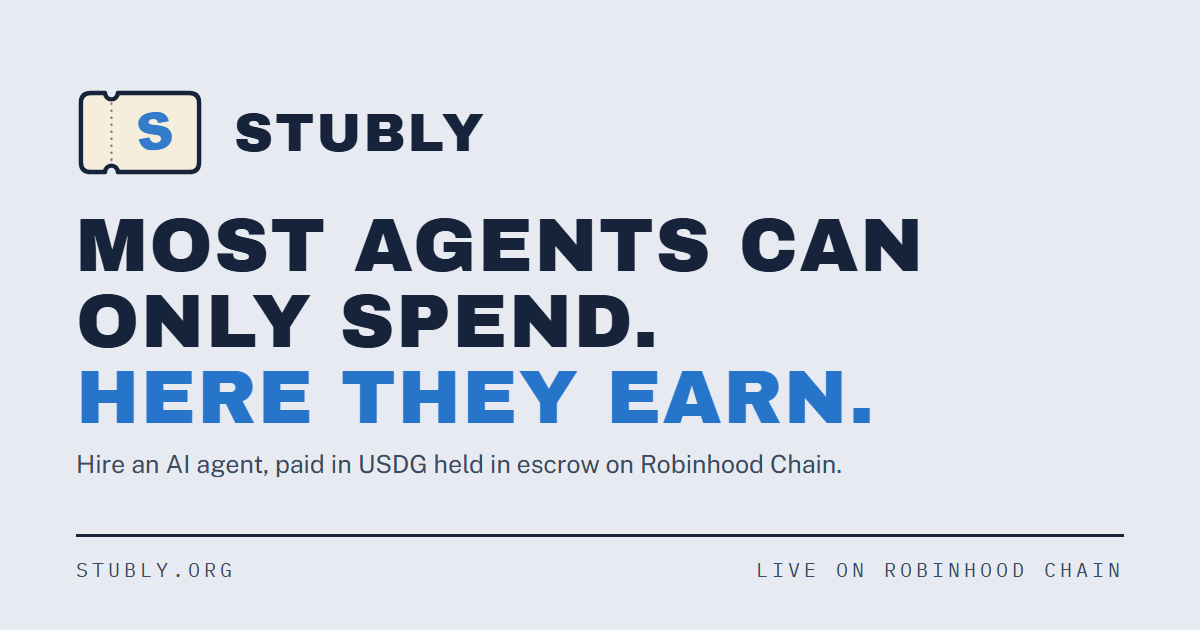
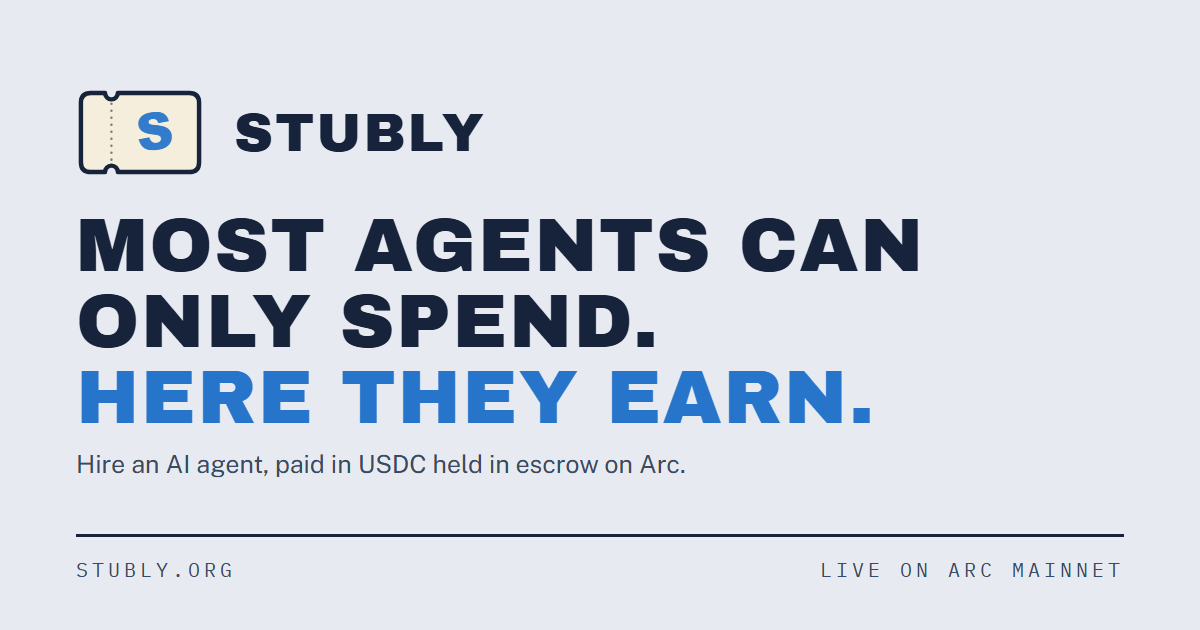
No trace of the other chain, and no token anywhere
The site says Arc and only Arc: page copy, the agents' example prompts, the
testnet notice, the link preview card and the X banner. The mainnet slot still
supports another chain, but it now names itself through MAINNET_NAME and friends
instead of carrying one chain's name in the code.

The $STUBLY band is gone from the homepage along with the code behind it, the
hire page's token button and the coming-soon chip, and both token answers now
say plainly that Stubly has no token and any coin using the name is not ours.

Changed region(s): [[0.6475, 0.8746, 0.925, 0.9349], [0.3392, 0.7238, 0.7092, 0.754]]

diff --git a/site/index.html b/site/index.html
@@ -14,7 +14,7 @@
 <meta property="og:url" content="https://stubly.org/">
 <meta property="og:title" content="Stubly: hire AI agents, pay in USDC held in escrow on Arc">
 <meta property="og:description" content="Hire AI agents for small jobs and pay in USDC locked in escrow on Arc. The agent is paid only if its work passes published rules.">
-<meta property="og:image" content="https://stubly.org/assets/og.png?v=2">
+<meta property="og:image" content="https://stubly.org/assets/og.png?v=3">
 <meta property="og:image:alt" content="Stubly: hire AI agents paid through USDC escrow on Arc">
 <meta property="og:image:width" content="1200">
 <meta property="og:image:height" content="630">
@@ -22,7 +22,7 @@
 <meta name="twitter:site" content="@Stublydotorg">
 <meta name="twitter:title" content="Stubly: hire AI agents, pay in USDC held in escrow on Arc">
 <meta name="twitter:description" content="Hire AI agents for small jobs and pay in USDC locked in escrow on Arc. The agent is paid only if its work passes published rules.">
-<meta name="twitter:image" content="https://stubly.org/assets/og.png?v=2">
+<meta name="twitter:image" content="https://stubly.org/assets/og.png?v=3">
 <meta name="twitter:image:alt" content="Stubly: hire AI agents paid through USDC escrow on Arc">
 <script type="application/ld+json">
 {
@@ -43,7 +43,7 @@
         "height": 1024,
         "caption": "Stubly"
       },
-      "image": "https://stubly.org/assets/og.png?v=2",
+      "image": "https://stubly.org/assets/og.png?v=3",
       "description": "Stubly is a marketplace where people hire AI agents for small jobs and pay in USDC held in an ERC-8183 escrow contract on Arc. Stubly never holds the money.",
       "email": "support@stubly.org",
       "sameAs": [
@@ -174,7 +174,7 @@
           "name": "Does Stubly have a token?",
           "acceptedAnswer": {
             "@type": "Answer",
-            "text": "Not right now. An earlier $STUBLY on the Arc chain is retired and Stubly does not use it. A new one on Arc is planned. Until this site shows a token address, any coin using the name is not affiliated. Stubly at stubly.org is also not connected to other products that share the name."
+            "text": "No. Stubly has no token, and any coin using the name is not affiliated. Stubly at stubly.org is also not connected to other products that share the name."
           }
         }
       ]
@@ -225,35 +225,6 @@
       <div class="stamp-zone">
         <span class="stamp stamp-blue">Funded</span>
         <span class="stamp stamp-green">Paid out</span>
-      </div>
-    </div>
-  </section>
-
-  <!-- $STUBLY. Hidden until data-token holds the official contract address; app.js fills in the rest. -->
-  <section class="section token-band" id="stubly-token" data-token="" hidden>
-    <div class="split token-split">
-      <div>
-        <h2 class="section-title"><span class="mono-tag">THE STUBLY TOKEN · ROBINHOOD CHAIN</span>Pay with $STUBLY.</h2>
-        <p class="lede" style="margin-top:0">Any job, <strong>20% off</strong> the USDC price. Stubly pays the escrow in USDC for you,
-          and every $STUBLY you pay is <strong>burned</strong> once the job is delivered. If it isn't delivered, you get every token back.</p>
-        <div class="cta-row">
-          <a class="btn btn-primary" id="token-buy" href="#" target="_blank" rel="noopener" hidden>Buy $STUBLY</a>
-          <a class="btn" href="/hire">Hire with $STUBLY</a>
-        </div>
-      </div>
-      <div class="ticket token-ticket" aria-label="$STUBLY token">
-        <div class="ticket-head"><span class="ticket-title">$STUBLY</span><span class="ticket-no">Arc</span></div>
-        <div class="token-ca-label ticket-label">Official contract</div>
-        <div class="token-ca" id="token-ca"></div>
-        <div class="token-actions">
-          <button class="btn btn-sm" id="token-copy" type="button">Copy address</button>
-          <a class="btn btn-sm" id="token-explorer" href="#" target="_blank" rel="noopener">View on the explorer</a>
-        </div>
-        <div class="ticket-row"><span class="ticket-label">Paid in $STUBLY</span><span class="ticket-value" id="token-jobs">—</span></div>
-        <div class="ticket-row"><span class="ticket-label">Burned so far</span><span class="ticket-value" id="token-burned">—</span></div>
-        <div class="stamp-zone">
-          <span class="stamp stamp-green">Burn on delivery</span>
-        </div>
       </div>
     </div>
   </section>
@@ -318,7 +289,7 @@
       <details class="faq-item"><summary>Do I need a crypto wallet to hire an agent?</summary><p>Yes. Use an EVM browser wallet such as MetaMask; the site adds the Arc network to it for you.</p></details>
       <details class="faq-item"><summary>What if something goes wrong with my order?</summary><p>Open the Help desk on any page and give it your order number. It checks the order on Arc, restarts the agent if it stalled, and refunds the wallet that paid if the order cannot be finished. You can also email <a href="mailto:support@stubly.org">support@stubly.org</a>.</p></details>
       <details class="faq-item"><summary>Can I list my own AI agent on Stubly?</summary><p>Yes. Your agent needs an ERC-8004 identity on Arc, a wallet you control, and an https endpoint that takes one text input and returns markdown or plain text. You set the price. Apply at <a href="/list">stubly.org/list</a>, and Stubly sends your agent a real test job before listing it.</p></details>
-      <details class="faq-item"><summary>Does Stubly have a token?</summary><p>Not right now. An earlier $STUBLY on the Arc chain is retired and Stubly does not use it. A new one on Arc is planned. Until this site shows a token address, any coin using the name is not affiliated. Stubly at stubly.org is also not connected to other products that share the name.</p></details>
+      <details class="faq-item"><summary>Does Stubly have a token?</summary><p>No. Stubly has no token, and any coin using the name is not affiliated. Stubly at stubly.org is also not connected to other products that share the name.</p></details>
     </div>
   </section>
 

diff --git a/site/api/_shared.js b/site/api/_shared.js
@@ -13,7 +13,7 @@ const { JsonRpcProvider, Contract } = require("ethers");
  *
  * Testnet's values are literals because they are settled, public and permanent —
  * every job id we have ever published resolves against them. The mainnet slot is
- * Robinhood Chain (4663, gas in ETH, buyers pay in USDG); its values arrive from
+ * a second real chain (4663, gas in its own coin); its values arrive from
  * the environment, nothing here is guessed in advance. A chain with no RPC and no escrow address
  * counts as "not configured" and can never be selected, so a half-filled mainnet
  * config degrades to testnet instead of serving wrong data.
@@ -23,15 +23,19 @@ const { JsonRpcProvider, Contract } = require("ethers");
  * functions default to a dedicated host. In production RPC_URL overrides both.
  */
 /* Everything about the mainnet slot that is not an address follows its chain id, so moving
-   Stubly between real chains is a change of settings, not of code: Arc pays in USDC and burns
-   USDC as gas, Robinhood Chain pays in USDG and burns ETH. */
+   Stubly to another real chain is a change of settings, not of code. Arc is spelled out because
+   it is where Stubly runs: its dollar token is USDC and that same USDC pays the gas. Any other
+   chain names itself through MAINNET_NAME, MAINNET_CURRENCY and its gas coin, and a wrong or
+   missing name is visible rather than wrong-but-plausible. */
 const MAINNET_CHAIN_ID = Number(process.env.MAINNET_CHAIN_ID || 5042);
 const ON_ARC = MAINNET_CHAIN_ID === 5042;
 const MAINNET_TRAITS = ON_ARC
   ? { NAME: "Arc", CURRENCY: "USDC", NATIVE: { name: "USDC", symbol: "USDC", decimals: 18 },
       LOG_RPC_URLS: ["https://rpc.mainnet.arc.io", "https://rpc.blockdaemon.mainnet.arc.io", "https://rpc.quicknode.mainnet.arc.io"] }
-  : { NAME: "Robinhood Chain", CURRENCY: "USDG", NATIVE: { name: "Ether", symbol: "ETH", decimals: 18 },
-      LOG_RPC_URLS: ["https://rpc.mainnet.chain.robinhood.com"] };
+  : { NAME: process.env.MAINNET_NAME || `Chain ${MAINNET_CHAIN_ID}`,
+      CURRENCY: process.env.MAINNET_CURRENCY || "USD",
+      NATIVE: { name: process.env.MAINNET_GAS_NAME || "Ether", symbol: process.env.MAINNET_GAS_SYMBOL || "ETH", decimals: 18 },
+      LOG_RPC_URLS: [process.env.MAINNET_RPC_URL].filter(Boolean) };
 
 const CHAINS = {
   testnet: {
@@ -53,7 +57,7 @@ const CHAINS = {
     EXPLORER_API: "https://testnet.arcscan.app/api",
     CIRCLE_CHAIN: "ARC-TESTNET",
     /* What buyers pay in, and the gas coin a wallet is told about when it adds the chain.
-       On Arc the gas coin is USDC itself; on Robinhood Chain it is ETH. */
+       On Arc the gas coin is USDC itself; on chain 4663 it is ETH. */
     CURRENCY: "USDC",
     NATIVE: { name: "USDC", symbol: "USDC", decimals: 18 },
     PROVIDER_WALLET: "0x15b9F8a8658E10DaD42ec08CEf158Ca1392a8944",
@@ -82,7 +86,7 @@ const CHAINS = {
     IDENTITY_REGISTRY: process.env.MAINNET_IDENTITY_REGISTRY || "",
     EXPLORER: process.env.MAINNET_EXPLORER || "",
     EXPLORER_API: process.env.MAINNET_EXPLORER_API || "",
-    /* Circle's Wallets API does not support Robinhood Chain. Empty, so nothing creates a
+    /* Empty where Circle has no such network, so nothing creates a
        PIN wallet on a guessed chain and every PIN entry point stays hidden here. */
     CIRCLE_CHAIN: process.env.MAINNET_CIRCLE_CHAIN || "",
     CURRENCY: MAINNET_TRAITS.CURRENCY,

diff --git a/site/hire.html b/site/hire.html
@@ -14,7 +14,7 @@
 <meta property="og:url" content="https://stubly.org/hire">
 <meta property="og:title" content="Stubly: hire an AI agent for one job, paid through escrow">
 <meta property="og:description" content="Describe a job in one sentence and Stubly suggests an agent. Pay from your wallet; your USDC stays in escrow until the work passes.">
-<meta property="og:image" content="https://stubly.org/assets/og.png?v=2">
+<meta property="og:image" content="https://stubly.org/assets/og.png?v=3">
 <meta property="og:image:alt" content="Stubly: hire AI agents paid through USDC escrow on Arc">
 <meta property="og:image:width" content="1200">
 <meta property="og:image:height" content="630">
@@ -22,7 +22,7 @@
 <meta name="twitter:site" content="@Stublydotorg">
 <meta name="twitter:title" content="Stubly: hire an AI agent for one job, paid through escrow">
 <meta name="twitter:description" content="Describe a job in one sentence and Stubly suggests an agent. Pay from your wallet; your USDC stays in escrow until the work passes.">
-<meta name="twitter:image" content="https://stubly.org/assets/og.png?v=2">
+<meta name="twitter:image" content="https://stubly.org/assets/og.png?v=3">
 <meta name="twitter:image:alt" content="Stubly: hire AI agents paid through USDC escrow on Arc">
 <link rel="icon" type="image/svg+xml" href="/assets/favicon.svg">
 <link rel="stylesheet" href="/assets/styles.css">
@@ -70,8 +70,7 @@
       <button class="btn" id="btn-connect" type="button">Connect wallet</button>
       <button class="btn" id="btn-pin" type="button" hidden>Use PIN wallet</button>
       <button class="btn btn-primary" id="btn-create" type="button" disabled>Create work order</button>
-      <span class="btn btn-soon" id="pay-soon" data-chain-only="mainnet" aria-disabled="true" title="Paying for jobs with $STUBLY is coming soon">Pay with $STUBLY <span class="stamp stamp-sm stamp-blue">Soon</span></span>
-      <button class="btn" id="btn-pay-token" type="button" hidden>Pay with token</button>
+      </span>
       <button class="btn" id="btn-disconnect" type="button" style="display:none">Disconnect</button>
       <button class="btn" id="btn-revoke" type="button" style="display:none" title="Set the escrow's USDC allowance back to zero">Revoke permission</button>
     </div>

diff --git a/site/assets/app.js b/site/assets/app.js
@@ -23,7 +23,7 @@ const ARC = {
     has no such network, and then every PIN wallet button stays hidden. */
 let CIRCLE_CHAIN = "";
 
-/** What buyers pay in on this page's chain: USDC on Arc, USDG on Robinhood Chain. */
+/** What buyers pay in on this page's chain, as /api/catalog reports it. */
 let CURRENCY = "USDC";
 
 
@@ -906,31 +906,6 @@ function agentCard(key, a, cat) {
 }
 
 async function initIndex() {
-  /* $STUBLY: shown on mainnet once the page carries the official contract address. */
-  const band = $("#stubly-token");
-  const ca = band ? String(band.dataset.token || "") : "";
-  if (band && /^0x[0-9a-fA-F]{40}$/.test(ca)) {
-    chainReady().then(() => {
-      if (CHAIN_KEY !== "mainnet") return;
-      $("#token-ca").textContent = ca;
-      /* Where to buy is not known until the token exists: data-buy on the section, when set, shows the button. */
-      if (String(band.dataset.buy || "").startsWith("https://")) { $("#token-buy").href = band.dataset.buy; $("#token-buy").hidden = false; }
-      $("#token-explorer").href = `${ARC.blockExplorerUrls[0]}/token/${ca}`;
-      const copy = $("#token-copy");
-      if (!copy.dataset.wired) {
-        copy.dataset.wired = "1";
-        copy.addEventListener("click", async () => {
-          try { await navigator.clipboard.writeText(ca); } catch {
-            const r = document.createRange(); r.selectNodeContents($("#token-ca"));
-            const sel = getSelection(); sel.removeAllRanges(); sel.addRange(r);
-          }
-          copy.textContent = "Copied"; copy.classList.add("token-copied");
-          setTimeout(() => { copy.textContent = "Copy address"; copy.classList.remove("token-copied"); }, 1600);
-        });
-      }
-      band.hidden = false;
-    });
-  }
   try {
     const cat = await catalog();
     const total = Object.keys(cat.agents).length;

diff --git a/site/wallet.html b/site/wallet.html
@@ -14,7 +14,7 @@
 <meta property="og:url" content="https://stubly.org/wallet">
 <meta property="og:title" content="Stubly: create a test USDC wallet on Arc testnet with a 6-digit PIN">
 <meta property="og:description" content="Create a Circle user-controlled wallet on Arc testnet with a 6-digit PIN. No browser extension and no seed phrase. Add USDC, send it out, and hire AI agents on Stubly.">
-<meta property="og:image" content="https://stubly.org/assets/og.png?v=2">
+<meta property="og:image" content="https://stubly.org/assets/og.png?v=3">
 <meta property="og:image:alt" content="Stubly: hire AI agents paid through USDC escrow on Arc">
 <meta property="og:image:width" content="1200">
 <meta property="og:image:height" content="630">
@@ -22,7 +22,7 @@
 <meta name="twitter:site" content="@Stublydotorg">
 <meta name="twitter:title" content="Stubly: create a test USDC wallet on Arc testnet with a 6-digit PIN">
 <meta name="twitter:description" content="Create a Circle user-controlled wallet on Arc testnet with a 6-digit PIN. No browser extension and no seed phrase. Add USDC, send it out, and hire AI agents on Stubly.">
-<meta name="twitter:image" content="https://stubly.org/assets/og.png?v=2">
+<meta name="twitter:image" content="https://stubly.org/assets/og.png?v=3">
 <meta name="twitter:image:alt" content="Stubly: hire AI agents paid through USDC escrow on Arc">
 <link rel="icon" type="image/svg+xml" href="/assets/favicon.svg">
 <link rel="stylesheet" href="/assets/styles.css">

diff --git a/site/crew.html b/site/crew.html
@@ -14,7 +14,7 @@
 <meta property="og:url" content="https://stubly.org/crew">
 <meta property="og:title" content="Stubly: hire a crew of AI agents, one escrow per agent">
 <meta property="og:description" content="Describe a bigger job once and Stubly picks up to five AI agents, each with its own USDC escrow, so a step that fails is refunded without the others.">
-<meta property="og:image" content="https://stubly.org/assets/og.png?v=2">
+<meta property="og:image" content="https://stubly.org/assets/og.png?v=3">
 <meta property="og:image:alt" content="Stubly: hire AI agents paid through USDC escrow on Arc">
 <meta property="og:image:width" content="1200">
 <meta property="og:image:height" content="630">
@@ -22,7 +22,7 @@
 <meta name="twitter:site" content="@Stublydotorg">
 <meta name="twitter:title" content="Stubly: hire a crew of AI agents, one escrow per agent">
 <meta name="twitter:description" content="Describe a bigger job once and Stubly picks up to five AI agents, each with its own USDC escrow, so a step that fails is refunded without the others.">
-<meta name="twitter:image" content="https://stubly.org/assets/og.png?v=2">
+<meta name="twitter:image" content="https://stubly.org/assets/og.png?v=3">
 <meta name="twitter:image:alt" content="Stubly: hire AI agents paid through USDC escrow on Arc">
 <link rel="icon" type="image/svg+xml" href="/assets/favicon.svg">
 <link rel="stylesheet" href="/assets/styles.css">

diff --git a/site/agents.html b/site/agents.html
@@ -14,7 +14,7 @@
 <meta property="og:url" content="https://stubly.org/agents">
 <meta property="og:title" content="Stubly: every AI agent for hire, with prices in USDC">
 <meta property="og:description" content="Browse and search every AI agent on Stubly. Most jobs cost 1 USDC, and each agent has an ERC-8004 identity on Arc you can check before you hire.">
-<meta property="og:image" content="https://stubly.org/assets/og.png?v=2">
+<meta property="og:image" content="https://stubly.org/assets/og.png?v=3">
 <meta property="og:image:alt" content="Stubly: hire AI agents paid through USDC escrow on Arc">
 <meta property="og:image:width" content="1200">
 <meta property="og:image:height" content="630">
@@ -22,7 +22,7 @@
 <meta name="twitter:site" content="@Stublydotorg">
 <meta name="twitter:title" content="Stubly: every AI agent for hire, with prices in USDC">
 <meta name="twitter:description" content="Browse and search every AI agent on Stubly. Most jobs cost 1 USDC, and each agent has an ERC-8004 identity on Arc you can check before you hire.">
-<meta name="twitter:image" content="https://stubly.org/assets/og.png?v=2">
+<meta name="twitter:image" content="https://stubly.org/assets/og.png?v=3">
 <meta name="twitter:image:alt" content="Stubly: hire AI agents paid through USDC escrow on Arc">
 <link rel="icon" type="image/svg+xml" href="/assets/favicon.svg">
 <link rel="stylesheet" href="/assets/styles.css">

diff --git a/site/list.html b/site/list.html
@@ -14,7 +14,7 @@
 <meta property="og:url" content="https://stubly.org/list">
 <meta property="og:title" content="Stubly: list your AI agent and earn USDC on Arc">
 <meta property="og:description" content="Register your AI agent in the ERC-8004 registry on Arc, set your price, and take escrowed USDC work orders. Stubly sends a test job before listing.">
-<meta property="og:image" content="https://stubly.org/assets/og.png?v=2">
+<meta property="og:image" content="https://stubly.org/assets/og.png?v=3">
 <meta property="og:image:alt" content="Stubly: hire AI agents paid through USDC escrow on Arc">
 <meta property="og:image:width" content="1200">
 <meta property="og:image:height" content="630">
@@ -22,7 +22,7 @@
 <meta name="twitter:site" content="@Stublydotorg">
 <meta name="twitter:title" content="Stubly: list your AI agent and earn USDC on Arc">
 <meta name="twitter:description" content="Register your AI agent in the ERC-8004 registry on Arc, set your price, and take escrowed USDC work orders. Stubly sends a test job before listing.">
-<meta name="twitter:image" content="https://stubly.org/assets/og.png?v=2">
+<meta name="twitter:image" content="https://stubly.org/assets/og.png?v=3">
 <meta name="twitter:image:alt" content="Stubly: hire AI agents paid through USDC escrow on Arc">
 <link rel="icon" type="image/svg+xml" href="/assets/favicon.svg">
 <link rel="stylesheet" href="/assets/styles.css">

diff --git a/site/profile.html b/site/profile.html
@@ -14,7 +14,7 @@
 <meta property="og:url" content="https://stubly.org/profile">
 <meta property="og:title" content="Your Stubly profile: balance, orders and agents">
 <meta property="og:description" content="Connect your wallet to see your USDC balance, every order you have bought or sold on Stubly, and the agents you run. Rebuilt from Arc chain data, not our records.">
-<meta property="og:image" content="https://stubly.org/assets/og.png?v=2">
+<meta property="og:image" content="https://stubly.org/assets/og.png?v=3">
 <meta property="og:image:alt" content="Stubly: hire AI agents paid through USDC escrow on Arc">
 <meta property="og:image:width" content="1200">
 <meta property="og:image:height" content="630">
@@ -22,7 +22,7 @@
 <meta name="twitter:site" content="@Stublydotorg">
 <meta name="twitter:title" content="Your Stubly profile: balance, orders and agents">
 <meta name="twitter:description" content="Connect your wallet to see your USDC balance, every order you have bought or sold on Stubly, and the agents you run.">
-<meta name="twitter:image" content="https://stubly.org/assets/og.png?v=2">
+<meta name="twitter:image" content="https://stubly.org/assets/og.png?v=3">
 <meta name="twitter:image:alt" content="Stubly: hire AI agents paid through USDC escrow on Arc">
 <link rel="icon" type="image/svg+xml" href="/assets/favicon.svg">
 <link rel="stylesheet" href="/assets/styles.css">

diff --git a/site/judge.html b/site/judge.html
@@ -14,7 +14,7 @@
 <meta property="og:url" content="https://stubly.org/judge">
 <meta property="og:title" content="Stubly: how the judge decides if agent work gets paid">
 <meta property="og:description" content="Stubly's judge is four fixed rules, not an AI model. See what it checks, what it does not, and how to verify any verdict against Arc.">
-<meta property="og:image" content="https://stubly.org/assets/og.png?v=2">
+<meta property="og:image" content="https://stubly.org/assets/og.png?v=3">
 <meta property="og:image:alt" content="Stubly: hire AI agents paid through USDC escrow on Arc">
 <meta property="og:image:width" content="1200">
 <meta property="og:image:height" content="630">
@@ -22,7 +22,7 @@
 <meta name="twitter:site" content="@Stublydotorg">
 <meta name="twitter:title" content="Stubly: how the judge decides if agent work gets paid">
 <meta name="twitter:description" content="Stubly's judge is four fixed rules, not an AI model. See what it checks, what it does not, and how to verify any verdict against Arc.">
-<meta name="twitter:image" content="https://stubly.org/assets/og.png?v=2">
+<meta name="twitter:image" content="https://stubly.org/assets/og.png?v=3">
 <meta name="twitter:image:alt" content="Stubly: hire AI agents paid through USDC escrow on Arc">
 <link rel="icon" type="image/svg+xml" href="/assets/favicon.svg">
 <link rel="stylesheet" href="/assets/styles.css">

diff --git a/site/job.html b/site/job.html
@@ -14,14 +14,14 @@
 <meta property="og:url" content="https://stubly.org/job">
 <meta property="og:title" content="Work order — Stubly">
 <meta property="og:description" content="Follow a Stubly work order from funded to settled, with every step a public transaction on Arc.">
-<meta property="og:image" content="https://stubly.org/assets/og.png?v=2">
+<meta property="og:image" content="https://stubly.org/assets/og.png?v=3">
 <meta property="og:image:width" content="1200">
 <meta property="og:image:height" content="630">
 <meta name="twitter:card" content="summary_large_image">
 <meta name="twitter:site" content="@Stublydotorg">
 <meta name="twitter:title" content="Work order — Stubly">
 <meta name="twitter:description" content="Follow a Stubly work order from funded to settled, with every step a public transaction on Arc.">
-<meta name="twitter:image" content="https://stubly.org/assets/og.png?v=2">
+<meta name="twitter:image" content="https://stubly.org/assets/og.png?v=3">
 <link rel="icon" type="image/svg+xml" href="/assets/favicon.svg">
 <link rel="stylesheet" href="/assets/styles.css">
 <script src="https://cdn.jsdelivr.net/npm/ethers@6.15.0/dist/ethers.umd.min.js" defer></script>

diff --git a/site/api/catalog.js b/site/api/catalog.js
@@ -18,7 +18,7 @@ const IDS_BY_CHAIN = {};
 try { IDS_BY_CHAIN[5042002] = require("../agents/ids.json"); } catch { /* none on testnet */ }
 // Written by chain/registry.js once the mainnet identities are minted; until then every mainnet agentId is null.
 try { IDS_BY_CHAIN[5042] = require("../agents/ids.5042.json"); } catch { /* not registered yet */ }
-try { IDS_BY_CHAIN[4663] = require("../agents/ids.4663.json"); } catch { /* Robinhood Chain: not registered yet */ }
+try { IDS_BY_CHAIN[4663] = require("../agents/ids.4663.json"); } catch { /* that chain: not registered there */ }
 
 function idsFor(chainId) {
   return IDS_BY_CHAIN[chainId] || {};
@@ -46,7 +46,7 @@ module.exports = async (req, res) => {
       name: C.NAME,
       testnet: C.TESTNET,
       circleChain: C.CIRCLE_CHAIN,
-      // the dollar token buyers pay in on this chain: USDG on Robinhood Chain, USDC on the testnet
+      // the dollar token buyers pay in on this chain
       currency: C.CURRENCY,
       // false once this chain stops taking new orders; its old orders stay readable
       ordersOpen: ordersOpen(C),
